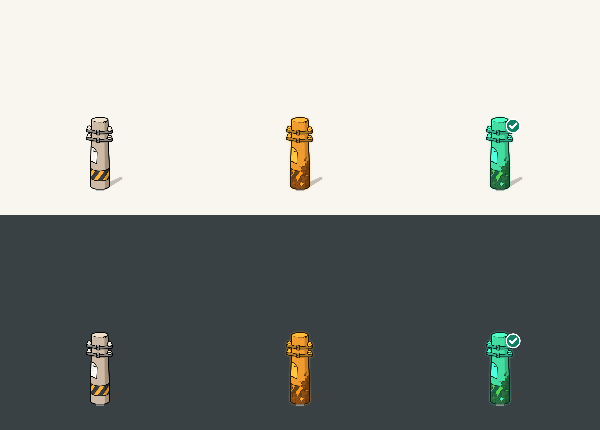
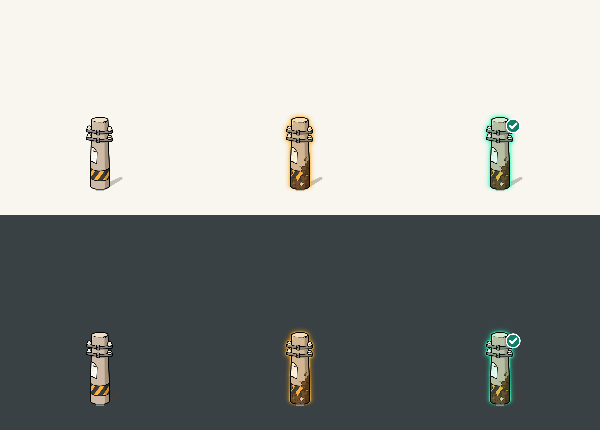
지도 바닥을 눌러도 선택이 남던 것을 해제하고 전봇대에 형광 윤곽을 적용
내 점령지·북마크 지도와 개발 미리보기의 빈 지도 탭을 선택 해제에 연결한다. 카메라 스냅샷을 보존해 전체 보기로 튀지 않게 한다. 본체 반사색을 줄이고 밝은 심지와 색빛을 겹쳐 형광 윤곽을 만든다. 대상 테스트 16개, 빌드, 폰에서 범위와 카드 닫힘 및 설치 APK 해시 일치를 확인했다.

diff --git a/app/src/test/java/com/daengs/app/map/layers/territory/TerritoryPoleArtTest.kt b/app/src/test/java/com/daengs/app/map/layers/territory/TerritoryPoleArtTest.kt
@@ -46,8 +46,8 @@ class TerritoryPoleArtTest {
         }
     }
 
-    @Test fun `그림만 작아지고 옅은 사선 그림자는 밑동 오른쪽에 붙는다`() {
-        TerritoryMarkerOccupancy.entries.forEach { state ->
+    @Test fun `미점유 본체 크기와 옅은 사선 그림자는 유지된다`() {
+        listOf(TerritoryMarkerOccupancy.NEUTRAL).forEach { state ->
             val bitmap = territoryMarkerIcon(context, state)
             val inkRows = (0 until bitmap.height).filter { y ->
                 (0 until bitmap.width).any { x -> Color.alpha(bitmap.getPixel(x, y)) > 128 }
@@ -69,7 +69,7 @@ class TerritoryPoleArtTest {
         assertEquals(48 to 120, TerritoryPoleArt.size())
     }
 
-    @Test fun `실제 지도 크기에서 본체가 상태색으로 빛나고 바닥 발광은 없다`() {
+    @Test fun `실제 지도 크기에서 본체 질감은 남고 윤곽 밖으로 형광빛이 번진다`() {
         val icons = TerritoryMarkerOccupancy.entries.associateWith { state ->
             val bitmap = territoryMarkerIcon(context, state)
             for (x in 0 until bitmap.width) {
@@ -79,16 +79,27 @@ class TerritoryPoleArtTest {
                 assertEquals(0, Color.alpha(bitmap.getPixel(0, y)))
                 assertEquals(0, Color.alpha(bitmap.getPixel(bitmap.width - 1, y)))
             }
-            assertEquals("본체에서 떨어진 바닥에는 발광을 깔지 않는다", 0, Color.alpha(bitmap.getPixel(50, 602)))
+            assertTrue("본체에서 떨어진 바닥에는 밝은 받침을 깔지 않는다",
+                Color.alpha(bitmap.getPixel(50, 602)) <= 16)
             Bitmap.createScaledBitmap(bitmap, 48, 120, true)
         }
         fun count(state: TerritoryMarkerOccupancy, xs: IntRange, ys: IntRange, predicate: (Int) -> Boolean) =
             ys.sumOf { y -> xs.count { x -> predicate(icons.getValue(state).getPixel(x, y)) } }
         val orange: (Int) -> Boolean = { Color.alpha(it) > 40 && Color.red(it) > Color.green(it) + 40 && Color.green(it) > Color.blue(it) + 40 }
         val mint: (Int) -> Boolean = { Color.alpha(it) > 40 && Color.green(it) > Color.red(it) + 60 && Color.blue(it) > Color.red(it) + 40 }
-        assertEquals(0, count(TerritoryMarkerOccupancy.NEUTRAL, 20..27, 65..95, orange))
-        assertTrue("미인증 본체의 중간 높이가 주황색이어야 한다", count(TerritoryMarkerOccupancy.UNVERIFIED, 20..27, 65..95, orange) >= 30)
-        assertTrue("인증 본체의 중간 높이가 민트색이어야 한다", count(TerritoryMarkerOccupancy.VERIFIED, 20..27, 65..95, mint) >= 30)
+        fun outsideTint(state: TerritoryMarkerOccupancy, predicate: (Int) -> Boolean) = (65..95).sumOf { y ->
+            (0 until 48).count { x -> Color.alpha(icons.getValue(TerritoryMarkerOccupancy.NEUTRAL).getPixel(x, y)) < 16 &&
+                predicate(icons.getValue(state).getPixel(x, y)) }
+        }
+        val warmGlow = outsideTint(TerritoryMarkerOccupancy.UNVERIFIED, orange)
+        val mintGlow = outsideTint(TerritoryMarkerOccupancy.VERIFIED, mint)
+        assertTrue("원래 실루엣 밖 주황빛 픽셀: $warmGlow", warmGlow >= 30)
+        assertTrue("원래 실루엣 밖 민트빛 픽셀: $mintGlow", mintGlow >= 30)
+        val warmBody = icons.getValue(TerritoryMarkerOccupancy.UNVERIFIED).getPixel(24, 80)
+        val mintBody = icons.getValue(TerritoryMarkerOccupancy.VERIFIED).getPixel(24, 80)
+        for (channel in listOf<(Int) -> Int>(Color::red, Color::green, Color::blue)) {
+            assertTrue("본체 전체를 상태색 페인트로 덮지 않는다", kotlin.math.abs(channel(warmBody) - channel(mintBody)) < 65)
+        }
         val white: (Int) -> Boolean = { Color.alpha(it) > 200 && Color.red(it) > 230 && Color.green(it) > 230 && Color.blue(it) > 230 }
         assertTrue("전봇대 자체의 밝은 픽셀과 별개로 인증 체크의 흰 획이 남는다",
             count(TerritoryMarkerOccupancy.VERIFIED, 34..40, 50..56, white) >=

diff --git a/app/src/main/java/com/daengs/app/map/layers/territory/TerritoryMarkerIcon.kt b/app/src/main/java/com/daengs/app/map/layers/territory/TerritoryMarkerIcon.kt
@@ -7,9 +7,13 @@ import android.graphics.BlurMaskFilter
 import android.graphics.Canvas
 import android.graphics.Color
 import android.graphics.LightingColorFilter
+import android.graphics.LinearGradient
 import android.graphics.Paint
 import android.graphics.Path
+import android.graphics.PorterDuff
+import android.graphics.PorterDuffXfermode
 import android.graphics.RectF
+import android.graphics.Shader
 import androidx.annotation.DrawableRes
 import com.daengs.app.R
 import kotlin.math.roundToInt
@@ -74,24 +78,41 @@ private fun drawPoleBody(canvas: Canvas, body: Bitmap, occupancy: TerritoryMarke
             canvas.drawBitmap(body, 0f, 0f, paint)
             return
         }
-        TerritoryMarkerOccupancy.UNVERIFIED -> Color.rgb(255, 182, 60)
-        TerritoryMarkerOccupancy.VERIFIED -> Color.rgb(72, 255, 208)
+        TerritoryMarkerOccupancy.UNVERIFIED -> Color.rgb(255, 166, 0)
+        TerritoryMarkerOccupancy.VERIFIED -> Color.rgb(0, 255, 181)
     }
-    // Blur the pole's alpha, never the ground shadow. Cache the final bitmap per state.
-    val offset = IntArray(2)
-    val halo = body.extractAlpha(Paint().apply {
-        maskFilter = BlurMaskFilter(8f, BlurMaskFilter.Blur.NORMAL)
-    }, offset)
-    paint.color = tint
-    paint.alpha = 150
-    canvas.drawBitmap(halo, offset[0].toFloat(), offset[1].toFloat(), paint)
-    halo.recycle()
+    // A bright narrow core inside a wider colored bloom reads as light, not paint.
+    val halo = Bitmap.createBitmap(body.width, body.height, Bitmap.Config.ARGB_8888)
+    val haloCanvas = Canvas(halo)
+    fun bloom(radius: Float, color: Int, alpha: Int) {
+        val offset = IntArray(2)
+        val mask = body.extractAlpha(Paint().apply {
+            maskFilter = BlurMaskFilter(radius, BlurMaskFilter.Blur.NORMAL)
+        }, offset)
+        paint.color = color
+        paint.alpha = alpha
+        haloCanvas.drawBitmap(mask, offset[0].toFloat(), offset[1].toFloat(), paint)
+        mask.recycle()
+    }
+    bloom(26f, tint, 235)
+    bloom(10f, tint, 255)
+    bloom(3f, if (occupancy == TerritoryMarkerOccupancy.UNVERIFIED) Color.rgb(255, 250, 218)
+        else Color.rgb(220, 255, 244), 255)
+    // Fade the bloom into the foot instead of clipping it at the bitmap's bottom edge.
+    haloCanvas.drawRect(0f, 0f, body.width.toFloat(), body.height.toFloat(), Paint().apply {
+        shader = LinearGradient(0f, 602f, 0f, 638f, Color.WHITE, Color.TRANSPARENT, Shader.TileMode.CLAMP)
+        xfermode = PorterDuffXfermode(PorterDuff.Mode.DST_IN)
+    })
     paint.color = Color.WHITE
     paint.alpha = 255
-    // Preserve the pole's shading and outline while lighting its entire surface.
+    canvas.drawBitmap(halo, 0f, 0f, paint)
+    halo.recycle()
+    canvas.drawBitmap(body, 0f, 0f, paint)
+    // Only a hint of reflected color reaches the surface; retain the original material.
     val light = if (occupancy == TerritoryMarkerOccupancy.UNVERIFIED) Color.rgb(35, 23, 10)
         else Color.rgb(10, 35, 28)
     paint.colorFilter = LightingColorFilter(tint, light)
+    paint.alpha = 30
     canvas.drawBitmap(body, 0f, 0f, paint)
 }
 

diff --git a/app/src/test/java/com/daengs/app/ui/game/owned/OwnedTerritoryScreenTest.kt b/app/src/test/java/com/daengs/app/ui/game/owned/OwnedTerritoryScreenTest.kt
@@ -32,12 +32,15 @@ class OwnedTerritoryScreenTest {
     @Test fun `list selection opens exact map position with the dogs profile and back returns`() {
         var back = 0
         var map: OwnedMapPresentation? = null
+        var clear: () -> Unit = {}
+        var snapshot: (com.daengs.app.map.shell.MapCameraSnapshot) -> Unit = {}
         val photos = mutableSetOf<String>()
         compose.setContent { DaengsTheme {
             OwnedTerritoryScreen(ready, listOf(previewGamePet(site.petId)), null,
                 { photos += it; ImageBitmap(8, 8) }, 0, { back++ }, {}, {}, {}, {},
-                mapSurface = { value, select, _ ->
+                mapSurface = { value, select, onCamera ->
                     map = value
+                    clear = { select(null) }; snapshot = onCamera
                     TextButton(onClick = { select(site.siteId) }) { Text("지도 전봇대") }
                 })
         } }
@@ -49,6 +52,15 @@ class OwnedTerritoryScreenTest {
         compose.onNodeWithText("사진 인증 완료").assertIsDisplayed()
         compose.onNodeWithText(site.siteId).assertDoesNotExist()
         compose.onNodeWithText("산책 시작").assertDoesNotExist()
+        val request = map!!.requestKey
+        val camera = com.daengs.app.map.shell.MapCameraSnapshot(checkNotNull(site.point), 18.0)
+        compose.runOnIdle { snapshot(camera); clear() }
+        compose.onNodeWithText("두부의 점령지").assertDoesNotExist()
+        compose.runOnIdle {
+            assertFalse(map!!.scene.territorySites.any { it.selected })
+            assertEquals(camera, map!!.camera)
+            assertEquals(request, map!!.requestKey)
+        }
         compose.onNodeWithTag("owned-back").performClick()
         assertEquals(1, back)
     }

diff --git a/app/src/test/java/com/daengs/app/ui/game/bookmarks/TerritoryBookmarksScreenTest.kt b/app/src/test/java/com/daengs/app/ui/game/bookmarks/TerritoryBookmarksScreenTest.kt
@@ -30,8 +30,12 @@ class TerritoryBookmarksScreenTest {
     @Test fun `saved list opens exact coordinate without walking and back restores list`() {
         var map: OwnedMapPresentation? = null
         var backs = 0
+        var clear: () -> Unit = {}
+        var snapshot: (com.daengs.app.map.shell.MapCameraSnapshot) -> Unit = {}
         compose.setContent { DaengsTheme {
-            TerritoryBookmarksScreen(ready, { backs++ }, {}, {}, {}, mapSurface = { value, _, _ -> map = value; Text("지도") })
+            TerritoryBookmarksScreen(ready, { backs++ }, {}, {}, {}, mapSurface = { value, select, onCamera ->
+                map = value; clear = { select(null) }; snapshot = onCamera; Text("지도")
+            })
         } }
         compose.onNodeWithText("저장한 전봇대 1 / 20곳").assertIsDisplayed()
         compose.onNodeWithText("지도에서 보기").performClick()
@@ -43,6 +47,15 @@ class TerritoryBookmarksScreenTest {
         }
         compose.onNodeWithText("산책 시작").assertDoesNotExist()
         compose.onNodeWithText(item.siteId).assertDoesNotExist()
+        val request = map!!.requestKey
+        val camera = com.daengs.app.map.shell.MapCameraSnapshot(checkNotNull(item.point), 18.0)
+        compose.runOnIdle { snapshot(camera); clear() }
+        compose.onNodeWithContentDescription("북마크 해제").assertDoesNotExist()
+        compose.runOnIdle {
+            assertFalse(map!!.scene.territorySites.any { it.selected })
+            assertEquals(camera, map!!.camera)
+            assertEquals(request, map!!.requestKey)
+        }
         compose.onNodeWithTag("bookmarks-back").performClick()
         compose.onNodeWithTag("bookmarks-list").assertIsDisplayed()
         assertEquals(0, backs)

diff --git a/app/src/main/java/com/daengs/app/ui/game/owned/OwnedTerritoryMap.kt b/app/src/main/java/com/daengs/app/ui/game/owned/OwnedTerritoryMap.kt
@@ -20,7 +20,7 @@ internal data class OwnedMapPresentation(
 )
 
 @Composable
-internal fun OwnedTerritoryMap(value: OwnedMapPresentation, onSelect: (String) -> Unit, onCamera: (MapCameraSnapshot) -> Unit) {
+internal fun OwnedTerritoryMap(value: OwnedMapPresentation, onSelect: (String?) -> Unit, onCamera: (MapCameraSnapshot) -> Unit) {
     if (LocalInspectionMode.current) {
         Box(Modifier.fillMaxSize().background(PinkSoft), contentAlignment = Alignment.Center) {
             Text("내 점령지 지도 · ${value.scene.territorySites.size}곳", color = TextDark)
@@ -28,10 +28,10 @@ internal fun OwnedTerritoryMap(value: OwnedMapPresentation, onSelect: (String) -
     } else MapHost(
         scene = value.scene, searchOrigin = null, followDevice = false,
         centerOn = value.centerOn, cameraRequestKey = value.requestKey,
-        fitBounds = value.scene.territorySites.map { it.point }.takeIf { value.centerOn == null },
+        fitBounds = value.scene.territorySites.map { it.point }.takeIf { value.centerOn == null && value.camera == null },
         keepSelectionVisible = true,
         onCameraIdle = {}, onCameraGesture = {}, onSelectPlace = {},
-        onSelectTerritorySite = onSelect, modifier = Modifier.fillMaxSize(),
+        onSelectTerritorySite = { onSelect(it) }, onMapTap = { onSelect(null) }, modifier = Modifier.fillMaxSize(),
         initialCamera = value.camera, onCameraSnapshot = onCamera,
     )
 }

diff --git a/app/src/main/java/com/daengs/app/ui/game/owned/OwnedTerritoryScreen.kt b/app/src/main/java/com/daengs/app/ui/game/owned/OwnedTerritoryScreen.kt
@@ -38,7 +38,7 @@ internal fun OwnedTerritoryScreen(
     state: OwnedBrowserState, pets: List<Pet>, petId: String?, photoOf: (String) -> ImageBitmap?, nowNanos: Long,
     onBack: () -> Unit, onSignIn: () -> Unit, onSelectPet: (String?) -> Unit,
     onRefresh: () -> Unit, onLoadMore: () -> Unit,
-    mapSurface: @Composable (OwnedMapPresentation, (String) -> Unit, (MapCameraSnapshot) -> Unit) -> Unit =
+    mapSurface: @Composable (OwnedMapPresentation, (String?) -> Unit, (MapCameraSnapshot) -> Unit) -> Unit =
         { value, select, snapshot -> OwnedTerritoryMap(value, select, snapshot) },
 ) {
     var showMap by rememberSaveable { mutableStateOf(true) }
@@ -47,8 +47,9 @@ internal fun OwnedTerritoryScreen(
     var camera by remember(petId) { mutableStateOf<MapCameraSnapshot?>(null) }
     val items = state.visibleItems(nowNanos)
     val selected = items.firstOrNull { it.siteId == selectedId }
-    val select: (String) -> Unit = { id ->
-        selectedId = id; showMap = true; camera = null; cameraRequest++
+    val select: (String?) -> Unit = { id ->
+        selectedId = id
+        if (id != null) { showMap = true; camera = null; cameraRequest++ }
     }
     BackHandler(onBack = onBack)
     Column(Modifier.fillMaxSize().background(CreamBg).windowInsetsPadding(WindowInsets.safeDrawing)) {

diff --git a/app/src/main/java/com/daengs/app/ui/game/bookmarks/TerritoryBookmarksScreen.kt b/app/src/main/java/com/daengs/app/ui/game/bookmarks/TerritoryBookmarksScreen.kt
@@ -55,7 +55,7 @@ internal fun bookmarkScene(items: List<TerritoryBookmark>, selected: String?) = 
 @Composable
 internal fun TerritoryBookmarksScreen(
     state: BookmarkState, onBack: () -> Unit, onSignIn: () -> Unit, onRefresh: () -> Unit, onToggle: (String) -> Unit,
-    mapSurface: @Composable (OwnedMapPresentation, (String) -> Unit, (MapCameraSnapshot) -> Unit) -> Unit =
+    mapSurface: @Composable (OwnedMapPresentation, (String?) -> Unit, (MapCameraSnapshot) -> Unit) -> Unit =
         { value, select, snapshot -> OwnedTerritoryMap(value, select, snapshot) },
 ) {
     var showMap by rememberSaveable { mutableStateOf(false) }
@@ -63,8 +63,9 @@ internal fun TerritoryBookmarksScreen(
     var request by rememberSaveable { mutableIntStateOf(0) }
     var camera by remember { mutableStateOf<MapCameraSnapshot?>(null) }
     val selected = state.items.firstOrNull { it.siteId == selectedId }
-    val select: (String) -> Unit = { id ->
-        if (state.items.any { it.siteId == id && it.point != null }) {
+    val select: (String?) -> Unit = { id ->
+        if (id == null) selectedId = null
+        else if (state.items.any { it.siteId == id && it.point != null }) {
             selectedId = id; showMap = true; camera = null; request++
         }
     }

diff --git a/app/src/debug/java/com/daengs/app/ui/walk/TerritoryCardLabActivity.kt b/app/src/debug/java/com/daengs/app/ui/walk/TerritoryCardLabActivity.kt
@@ -69,6 +69,7 @@ private fun TerritoryCardLab(showMap: Boolean = true) {
                 searchOrigin = null, followDevice = false, centerOn = point, centerZoom = 18.0,
                 bottomPaddingPx = if (selected) cardPixels else 0,
                 onCameraIdle = {}, onCameraGesture = {}, onSelectPlace = {}, onSelectTerritorySite = { selected = true },
+                onMapTap = { selected = false },
                 modifier = Modifier.fillMaxSize())
             if (selected) TerritoryActionCard(game, onMark = { message = "일반 점령 콜백 · 서버 요청 없음" },
                 modifier = Modifier.align(Alignment.BottomCenter).onSizeChanged { cardPixels = it.height }

diff --git a/app/src/main/java/com/daengs/app/ui/game/owned/OwnedTerritoryRoute.kt b/app/src/main/java/com/daengs/app/ui/game/owned/OwnedTerritoryRoute.kt
@@ -17,7 +17,7 @@ internal fun OwnedTerritoryRoute(
     repository: OwnedTerritoryRepository, ownerId: String?, pets: List<Pet>?,
     onBack: () -> Unit, onSignIn: () -> Unit,
     photoOf: (String) -> ImageBitmap? = { null },
-    mapSurface: @Composable (OwnedMapPresentation, (String) -> Unit, (com.daengs.app.map.shell.MapCameraSnapshot) -> Unit) -> Unit =
+    mapSurface: @Composable (OwnedMapPresentation, (String?) -> Unit, (com.daengs.app.map.shell.MapCameraSnapshot) -> Unit) -> Unit =
         { value, select, snapshot -> OwnedTerritoryMap(value, select, snapshot) },
 ) {
     var petId by rememberSaveable(ownerId) { mutableStateOf<String?>(null) }

diff --git a/app/src/test/java/com/daengs/app/ui/walk/WalkViewModelTest.kt b/app/src/test/java/com/daengs/app/ui/walk/WalkViewModelTest.kt
@@ -327,7 +327,7 @@ class WalkViewModelTest {
         vm.activate(true, true); vm.onAction(WalkAction.ChangeMapPurpose(MapPurpose.TERRITORY)); runCurrent()
         vm.onAction(WalkAction.SelectTerritorySite("A")); runCurrent()
         vm.onAction(WalkAction.MarkTerritory("A")); runCurrent()
-        vm.onAction(WalkAction.ClearTerritory); runCurrent()
+        vm.onAction(WalkAction.MapTapped(GeoPoint(37.501, 127.001))); runCurrent()
         stored.complete("saved"); runCurrent()
         assertEquals(null, vm.state.value.territory.selectedSiteId)
         assertEquals(null, vm.state.value.momentNotice)

diff --git a/app/src/debug/java/com/daengs/app/ui/walk/TerritoryPoleLabActivity.kt b/app/src/debug/java/com/daengs/app/ui/walk/TerritoryPoleLabActivity.kt
@@ -59,6 +59,7 @@ private fun TerritoryPoleLab() {
             centerOn = center, centerZoom = 18.0,
             onCameraIdle = {}, onCameraGesture = {}, onSelectPlace = {},
             onSelectTerritorySite = { selected = it; feedback = null },
+            onMapTap = { selected = null; feedback = null },
             modifier = Modifier.fillMaxWidth().weight(1f))
     }
 }

diff --git a/docs/territory-pole-art.md b/docs/territory-pole-art.md
@@ -8,7 +8,7 @@
 | UNVERIFIED | map_territory_pole_occupied.webp | 본체 주황빛 | 미인증 |
 | VERIFIED | map_territory_pole_occupied.webp | 본체 민트빛 + 흰 체크 배지 | 인증 |
 
-`WalkMapPresentation`의 기존 점유 상태를 사용한다. 더러움은 점유 유무를 뜻하며 시간이나 방문 횟수에 따라 누적하지 않는다. 미인증과 인증은 같은 원본 에셋의 본체 전체에 상태색과 실루엣 발광을 합성한다. 원래 명암과 외곽선을 보존하며 바닥 타원 발광은 사용하지 않는다. 인증에는 색 구분을 보완하는 체크도 붙인다. 선택하지 않아도 상태가 보이며 기존 caption과 카드도 유지한다. 상태 발광은 실제 판정 반경을 뜻하지 않는다. 접근 링과 잠깐 나타나는 성공 발자국은 기존 반경·시간·색상을 유지한다.
+`WalkMapPresentation`의 기존 점유 상태를 사용한다. 더러움은 점유 유무를 뜻하며 시간이나 방문 횟수에 따라 누적하지 않는다. 미인증과 인증은 같은 원본 에셋에 형광 윤곽과 부드러운 색빛을 합성한다. 본체는 원래 질감과 색을 유지하고 약한 반사색만 더한다. 바닥 타원 발광은 사용하지 않는다. 인증에는 색 구분을 보완하는 체크도 붙인다. 선택하지 않아도 상태가 보이며 기존 caption과 카드도 유지한다. 상태 발광은 실제 판정 반경을 뜻하지 않는다. 접근 링과 잠깐 나타나는 성공 발자국은 기존 반경·시간·색상을 유지한다.
 
 ## 에셋과 배치
 
@@ -22,14 +22,14 @@
 - 두 파일 모두 **256×640**, 밑동 접점 **(128,624)**. 바깥 배경을 자른 뒤 밑면 중심을 맞추므로 가로대가 좌우 중심을 바꾸어도 밑동은 움직이지 않는다.
 - 네이버 마커는 선택 전후 모두 **48×120px**이며 준비 효과에서도 확대하지 않는다. 선택은 범위 원·caption·카드로 표현한다. 내부 본체만 밑동을 중심으로 **65%** 축소하며 실제 높이는 약 **73px**다. 점령 성공 확대는 가로·세로를 함께 키운다. anchor는 **(0.5,0.975)**라 성공 효과에서도 밑동의 지리 좌표가 유지된다. 선택 시 카메라 줌인은 추가하지 않는다.
 - 그림자는 에셋에 굽지 않고 `territoryMarkerIcon`에서 오른쪽 위로 짧게 뻗는 둥근 끝의 고깔 Path로 그린다. 팔 모양이나 원형 받침이 없고 두 상태 모두 같은 색/알파(76/255, 약 30%)다. 작은 그림자 뒤에 본체를 합성한다.
-- 발광은 전봇대 본체의 알파 실루엣을 따라 부드럽게 퍼지는 빛이다. 주황/민트 조명 필터로 본체 자체의 색도 바뀐다. 그림자에는 색을 입히지 않는다. 인증 체크는 흰 테두리와 짙은 민트 바탕으로 밝고 어두운 지도에서 구분한다. 기존 비트맵의 투명 여백에 합성하므로 전체 크기·밑동 접점은 바뀌지 않는다. 지속 애니메이션이나 추가 지도 오버레이는 없다.
+- 발광은 전봇대의 알파 실루엣을 따라 넓은 주황/민트 빛, 좁은 색빛, 밝은 심지를 합성한다. 본체 반사색은 약 12%만 더해 페인트처럼 덮지 않는다. 그림자에는 조명 필터를 적용하지 않고 밑동 쪽 빛은 투명하게 줄여 캔버스 끝에서 잘리지 않게 한다. 인증 체크는 흰 테두리와 짙은 민트 바탕으로 밝고 어두운 지도에서 구분한다. 기존 비트맵의 투명 여백에 합성하므로 전체 크기·밑동 접점은 바뀌지 않는다. 지속 애니메이션이나 추가 지도 오버레이는 없다.
 - 합성 비트맵 **세 개를 점유 상태별로 캐시**하며 애니메이션 프레임마다 비트맵을 만들지 않는다. 원본 파일은 두 개지만 미인증·인증의 합성 결과가 다르므로 리소스 ID로 캐시를 합치지 않는다. 지도·`TerritoryFeedbackPreview`·규칙 팝업 예시가 같은 합성 함수를 사용한다.
 
 ## 검토 방법
 
 `TerritoryFeedbackPreview`는 지도와 같은 픽셀 크기/접점을 사용한다. `TerritoryPoleArtTest`는 실제 WebP를 읽어 배경 alpha, 흰 포스터 보존, 밑동 명도 차이, 비율을 검증하고 `app/build/reports/territory-pole/native-sizes.png`를 출력한다. 이 그림은 실제 크기 래스터 비교이며 지도 스크린샷은 아니다.
 
-Debug 빌드의 `TerritoryPoleLabActivity`는 실제 `MapHost`와 전봇대 레이어에 가상 장소 세 개를 전달한다. 기본·미인증·인증, 선택 전후 크기 유지, 상태 전환, 링/발자국을 서버 점령이나 GPS 기록 없이 검토한다. 이 진입점은 release에 포함되지 않는다.
+Debug 빌드의 `TerritoryPoleLabActivity`는 실제 `MapHost`와 전봇대 레이어에 가상 장소 세 개를 전달한다. 기본·미인증·인증, 선택 전후 크기 유지, 상태 전환, 링/발자국을 서버 점령이나 GPS 기록 없이 검토한다. 빈 바닥을 누르면 선택과 범위 표시를 해제한다. 이 진입점은 release에 포함되지 않는다.
 
 ```powershell
 adb shell am start -n com.daengs.app/.ui.walk.TerritoryPoleLabActivity
@@ -37,7 +37,7 @@ adb shell am start -n com.daengs.app/.ui.walk.TerritoryPoleLabActivity
 
 원본 반입 당시 검증: `uv run --with pillow python -m unittest discover -s tools -p test_map_sprite.py` 4개, `:app:testDebugUnitTest --tests '*TerritoryPoleArtTest' --tests '*TerritoryFeedbackUiTest'` 9개 통과. `:app:assembleDebug -PterritoryServerRead=true` 성공. 지도 키/API 주소는 ignored 로컬 설정이며 저장소에는 넣지 않는다. 에뮬레이터 설치 `Success` 후 APK를 회수해 두 WebP의 SHA-256 일치를 확인한다. 실화면 검증 결과는 PR에 기록하며, 물리 기기와 로그인 뒤 실제 점유 조회는 별도다.
 
-상태 발광 변경은 `TerritoryPoleArtTest` 6개와 `TerritoryGameRulesTest` 3개, 디버그 APK 빌드로 검증했다. 별도 미리보기 APK를 실기기에 설치하고 회수한 APK의 SHA-256 일치, 선택 전 상태 표시와 선택 범위 원을 확인했다. 가상 장소를 사용했으며 실제 점령 API는 호출하지 않았다.
+최종 형광 표현은 `TerritoryPoleArtTest` 6개로, 빈 바닥 탭 해제는 `OwnedTerritoryScreenTest` 4개·`TerritoryBookmarksScreenTest` 5개와 `WalkViewModelTest`의 저장 중 카드 해제 1개로 검증했다. 규칙 예시 상태 매핑 변경 시 `TerritoryGameRulesTest` 3개도 통과했다. 별도 미리보기 APK를 실기기에 설치하고 회수한 APK의 SHA-256 일치, 선택 전 상태 표시와 선택 범위 원을 확인했다. 가상 장소를 사용했으며 실제 점령 API는 호출하지 않았다.
 
 아래는 현재 실제 표시 픽셀 크기의 합성 결과다. 왼쪽부터 기본·미인증·인증이다. 위는 밝은 배경, 아래는 어두운 배경이다. 선택 전후 크기는 동일하다.
 
